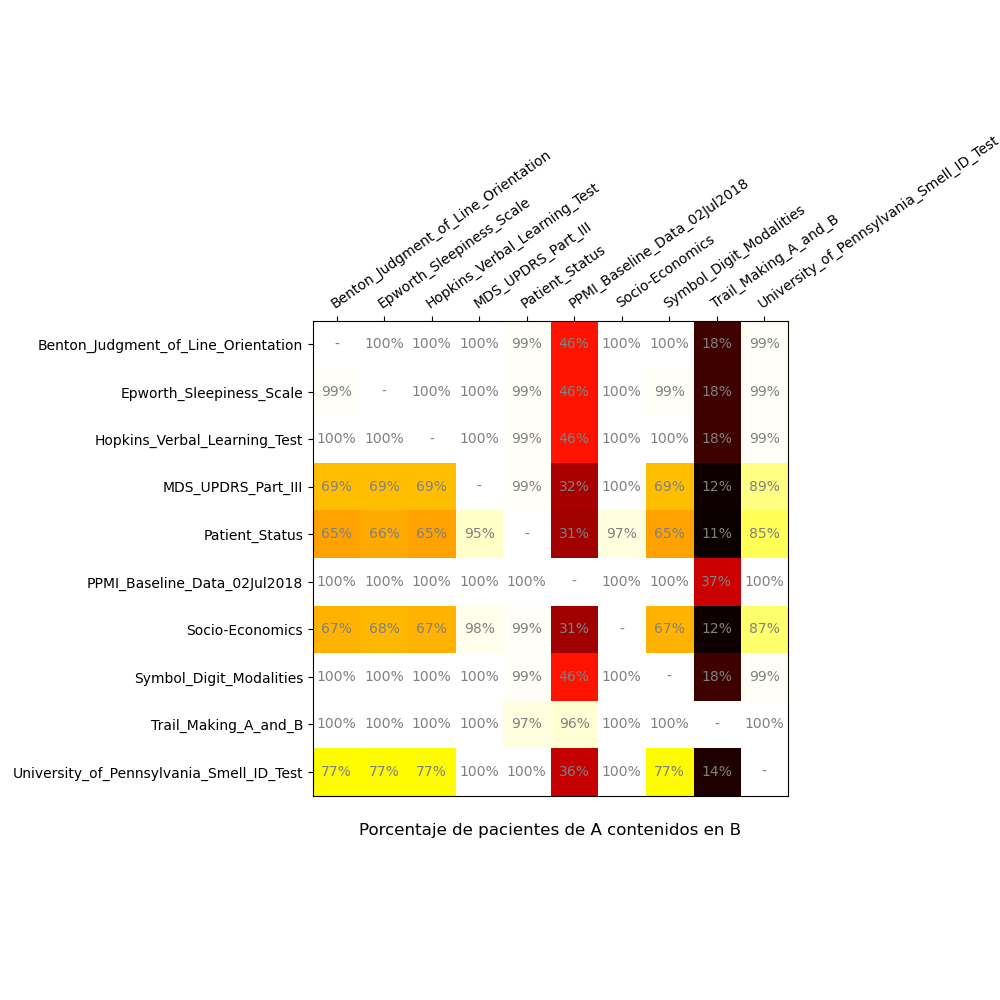
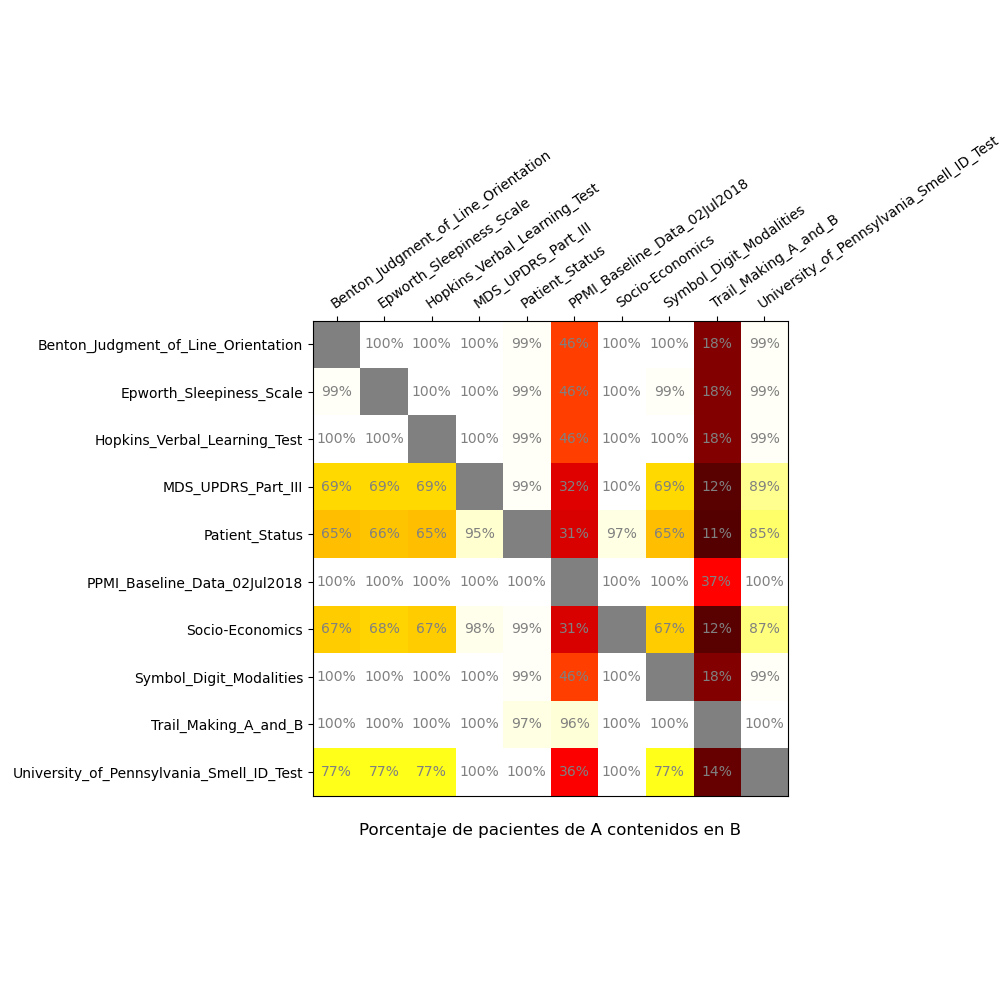
Utilizada una clase para generar la imagen

Changed region(s): [[0.31, 0.31, 0.806, 0.806], [0.31, 0.744, 0.465, 0.806], [0.31, 0.589, 0.465, 0.651]]

diff --git a/estadísticas/Intersección.py b/estadísticas/Intersección.py
@@ -2,9 +2,8 @@ import os
 from typing import List
 import numpy as np
 import pandas as pd
-import matplotlib.pyplot as plt
-
 from preprocesamiento.funciones import buscar_csv
+from estadísticas.generar_mapa_de_calor import mapa_de_calor
 
 ''' Calcula los porcentajes de intersección de pacientes entre varios archivos '''
 
@@ -31,31 +30,13 @@ for i in range(num_tablas):
 print(matriz)
 
 # generar mapa de calor
-fig, ax = plt.subplots(figsize=(10, 10))
-im = ax.imshow(matriz, cmap='hot')
-
-# número de marcas en cada eje
-ax.set_xticks(np.arange(num_tablas))
-ax.set_yticks(np.arange(num_tablas))
-
-# etiquetas de cada eje
 etiquetas = [os.path.splitext(r)[0] for r in os.listdir(ruta_carpeta)]
-ax.xaxis.tick_top()
-ax.set_xticklabels(etiquetas)
-ax.set_yticklabels(etiquetas)
-
-# configurar las etiquetas
-plt.setp(ax.get_xticklabels(), rotation=35, ha='left', rotation_mode='anchor')
-
-# mostrar texto en cada celda
-for i in range(num_tablas):
-    for j in range(num_tablas):
-        ax.text(j, i, str(matriz[i, j]) + '%' if i != j else '-',
-                ha='center', va='center', color='gray')
-
-# título
-ax.set_title('Porcentaje de pacientes de A contenidos en B', y=-0.1)
-
-# guardar
-fig.tight_layout()
-plt.savefig(ruta_grafico)
+mapa_de_calor(matriz=matriz,
+              ruta=ruta_grafico,
+              titulo='Porcentaje de pacientes de A contenidos en B',
+              etiquetas_x=etiquetas,
+              etiquetas_y=etiquetas,
+              sufijo='%',
+              tamano_fig=(10, 10),
+              rango_color=(0, 100)
+              )
